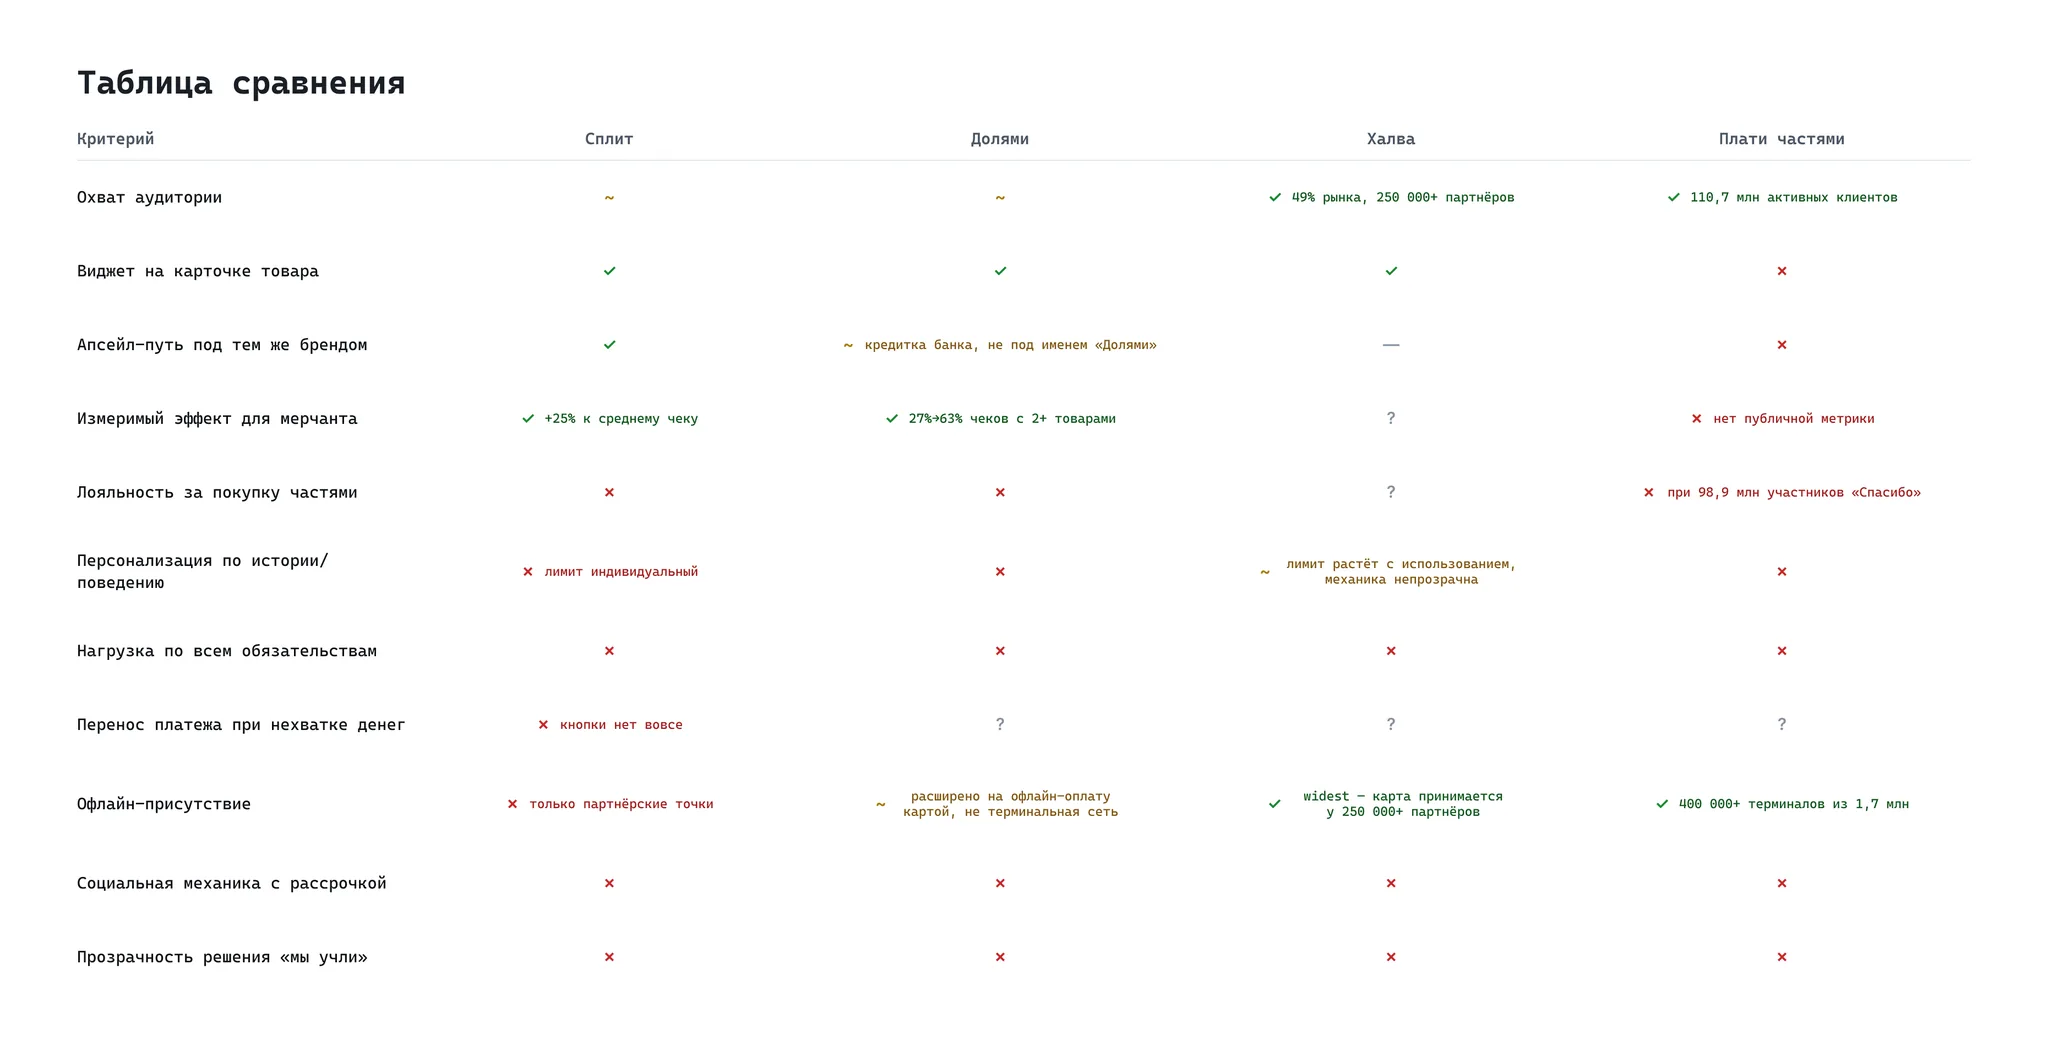
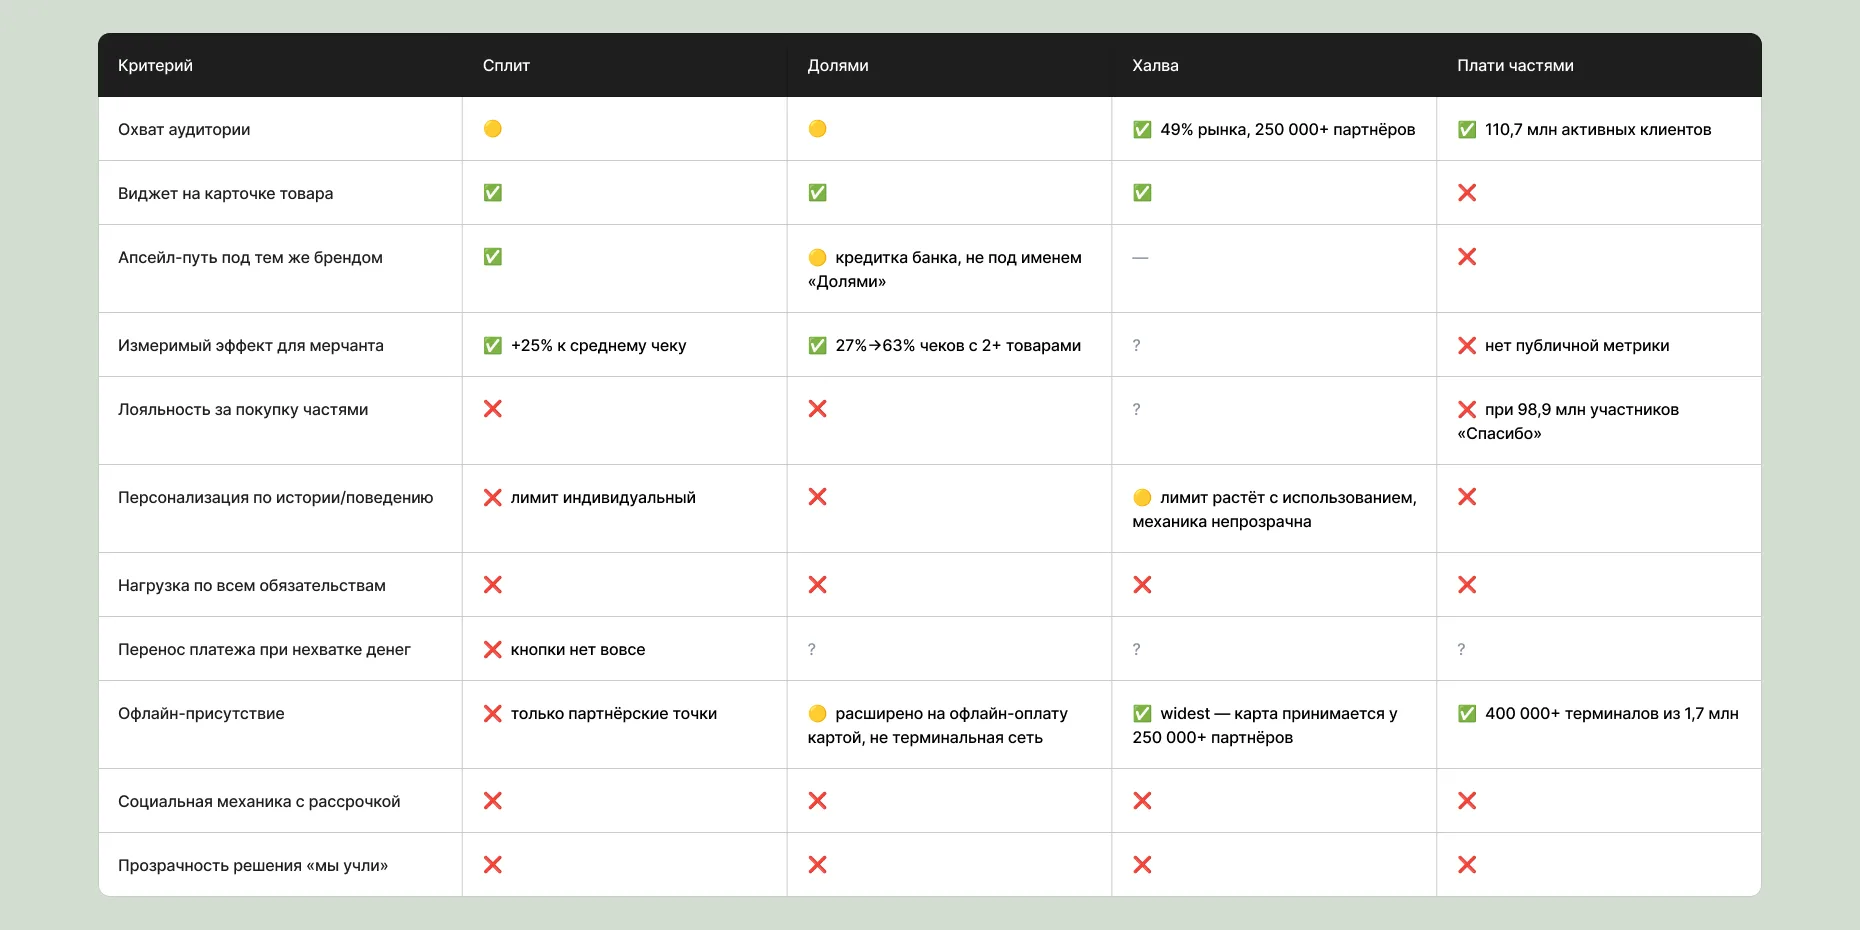
Заменить картинки кейса «Плати частями» на оригиналы из src/content/sber
Таблица сравнения, точки трения, гипотезы, решения и user-flow были
перепечатаны моноширинным шрифтом вместо обычного — заменены на
исходные скриншоты (competitors-table, problem-friction, hypotheses,
solutions, user-flow), размеры картинки/flow поправлены под их
реальную пропорцию.

diff --git a/src/content/cases/platiChastyami.ts b/src/content/cases/platiChastyami.ts
@@ -122,7 +122,7 @@ export const platiChastyami: Record<"ru" | "en", CaseStudyData> = {
         ],
       },
 
-      img("competitors-table", "Таблица сравнения BNPL-сервисов по условиям"),
+      img("competitors-table", "Таблица сравнения BNPL-сервисов по условиям", 1860, 930),
 
       {
         type: "text",
@@ -183,7 +183,7 @@ export const platiChastyami: Record<"ru" | "en", CaseStudyData> = {
       },
 
       img("solutions", "Пять решений: бюджет, Sber ID, лента, помощник, сканер"),
-      img("user-flow", "Карта пользовательских сценариев приложения"),
+      img("user-flow", "Карта пользовательских сценариев приложения", 2048, 1024),
 
       {
         type: "text",
@@ -428,7 +428,7 @@ export const platiChastyami: Record<"ru" | "en", CaseStudyData> = {
         ],
       },
 
-      img("competitors-table", "Comparison table of BNPL services by terms"),
+      img("competitors-table", "Comparison table of BNPL services by terms", 1860, 930),
 
       {
         type: "text",
@@ -489,7 +489,7 @@ export const platiChastyami: Record<"ru" | "en", CaseStudyData> = {
       },
 
       img("solutions", "Five solutions: budget, Sber ID, feed, assistant, scanner"),
-      img("user-flow", "Map of the app's user scenarios"),
+      img("user-flow", "Map of the app's user scenarios", 2048, 1024),
 
       {
         type: "text",
